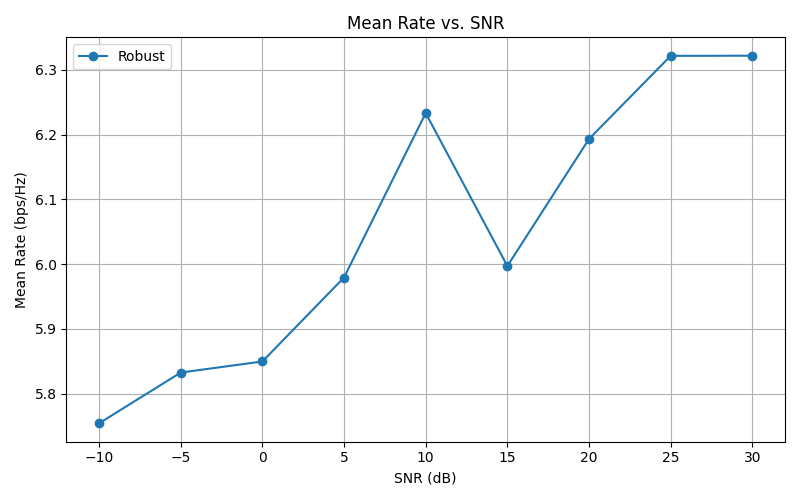
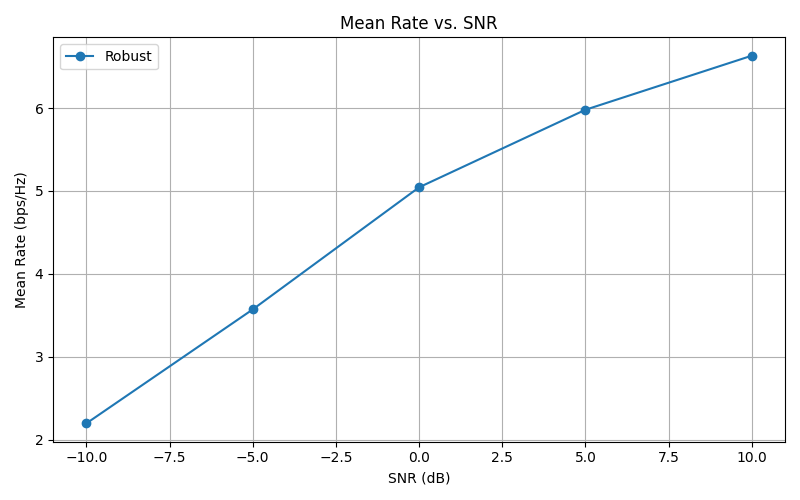
aftersim

diff --git a/diff_CS/simulate_rate_vs_snr.py b/diff_CS/simulate_rate_vs_snr.py
@@ -47,7 +47,8 @@ def run_simulation(snr_db_range, n_realizations=5):
             try:
                 # print(H[i].shape)
                 # constants = GlobalConstants(snr_db=0, snrest_db=[0, snr_db], Nt=32, Nr=2, K=2, Pt=1,Pin=0.75, H_HAT = H[i], h_hat_id=i)
-                constants = GlobalConstants(snr_db=5, snrest_db=[snr_db, snr_db], Nt=32, Nr=2, K=2, Pt=2, Pin=0.75, H_HAT=H[i], h_hat_id=i)
+                constants = GlobalConstants(snr_db=snr_db, snrest_db=[5, 5], Nt=32, Nr=2, K=2, Pt=2, Pin=0.75, H_HAT=H[i], h_hat_id=i)
+                # constants = GlobalConstants(snr_db=5, snrest_db=[snr_db, snr_db], Nt=32, Nr=2, K=2, Pt=2, Pin=0.75, H_HAT=H[i], h_hat_id=i)
 
                 # Robust setup
                 A_robust = VariablesA(constants, delta_k_id = i)
@@ -148,7 +149,8 @@ def run_simulation(snr_db_range, n_realizations=5):
 
 
 if __name__ == "__main__":
-    snr_db_range = np.arange(-10, 31, 5)
+    # snr_db_range = np.arange(-10, 31, 5)
+    snr_db_range = np.arange(-10, 11, 5)
     # snrest_db_range = np.arange(-3, 11, 2)
     r_m, n_m, r_v, n_v, w_m, w_v, r_o, n_o, w_o = run_simulation(snr_db_range, n_realizations=50)
     print("Robust mean rates (r_m):", r_m)

diff --git a/diff_CS/plot.py b/diff_CS/plot.py
@@ -3,6 +3,7 @@ import matplotlib.pyplot as plt
 from scipy.io import loadmat
 
 # Load the .mat file
+# data = loadmat('rates_snrest_snr5.mat')
 data = loadmat('rates.mat')
 
 # Extract arrays and convert to numpy arrays for easy slicing
